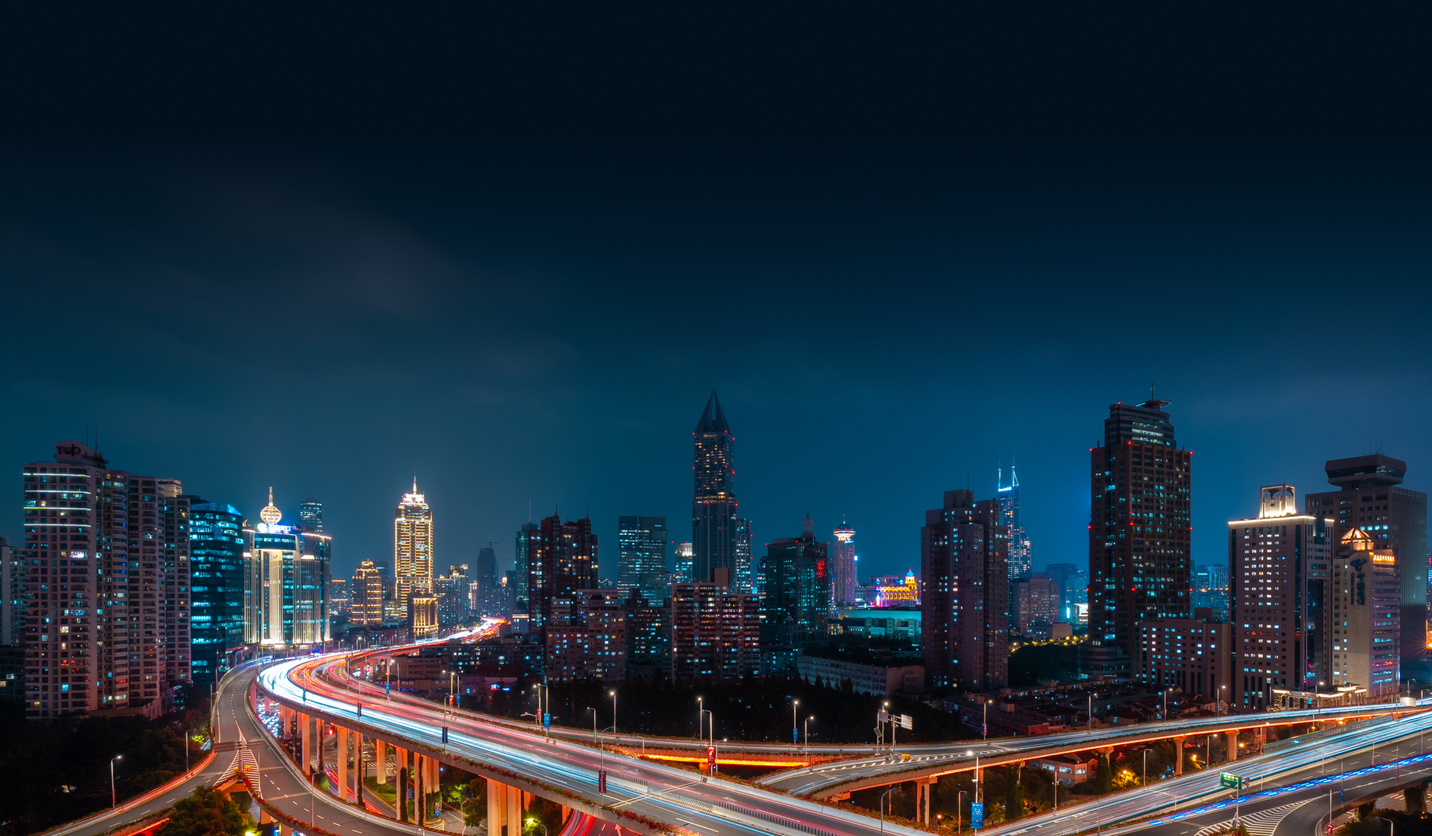
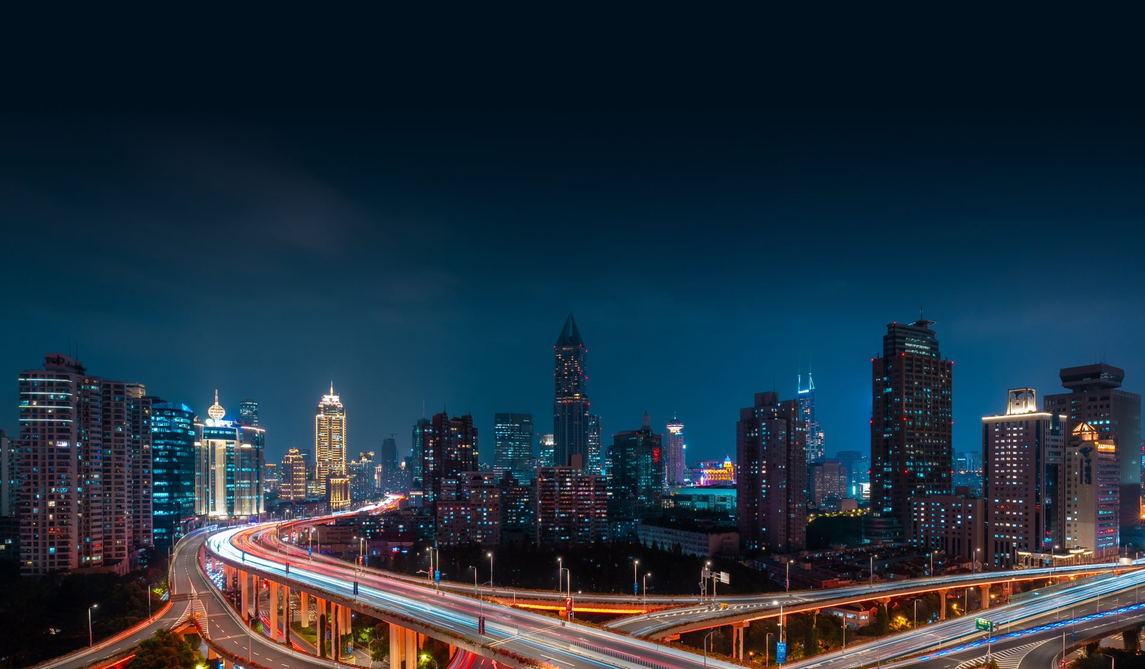
feat: cover-bg.jpg en hero con parallax + "Impulso y oportunidad" en amarillo
- Fondo cover-bg.jpg con overlay degradado oscuro (hero legible)
- Parallax sutil speed 0.10 unificado con registro en mismo listener
- "Impulso y oportunidad" en amarillo corporativo #FFDF00

https://claude.ai/code/session_01D8ZnPVVGj2vj9XwSmqi2Cn

diff --git a/styles.css b/styles.css
@@ -76,13 +76,18 @@ a{color:inherit;text-decoration:none;}
 .nav__cta:active{transform:translateY(1px);}
 @media (max-width:760px){.nav__links{display:none;}}
 
-.hero{position:relative;background:var(--hero);color:#fff;
+.hero{position:relative;overflow:hidden;background:var(--hero);color:#fff;
   min-height:clamp(520px,64vw,662px);
   display:flex;flex-direction:column;align-items:center;justify-content:center;
   text-align:center;padding:120px var(--pad) clamp(48px,7vw,90px);}
-.hero::before{content:"";position:absolute;inset:0;
-  background:radial-gradient(120% 90% at 50% 35%,rgba(255,255,255,.06),transparent 60%),
-             linear-gradient(180deg,rgba(0,0,0,.18),rgba(0,0,0,.30));pointer-events:none;}
+.hero__bg{
+  position:absolute;inset:-25% 0;
+  background:url('assets/cover-bg.jpg') center/cover no-repeat;
+  will-change:transform;transition:transform .12s linear;z-index:0;
+}
+.hero__bg::after{content:"";position:absolute;inset:0;
+  background:radial-gradient(120% 90% at 50% 35%,rgba(255,255,255,.04),transparent 60%),
+             linear-gradient(180deg,rgba(0,0,0,.42),rgba(0,0,0,.58));pointer-events:none;}
 .hero__content{position:relative;z-index:2;display:flex;flex-direction:column;align-items:center;}
 
 .oplogo{display:flex;align-items:center;gap:12px;margin-bottom:clamp(28px,5vw,48px);}

diff --git a/app.js b/app.js
@@ -74,14 +74,17 @@
   }
   window.addEventListener('beforeprint', function () { document.documentElement.classList.add('reveal-fallback'); });
 
-  /* ---------- Parallax: fondo sección registro ---------- */
-  var regBg = document.querySelector('.registro__bg');
-  if (regBg && !window.matchMedia('(prefers-reduced-motion:reduce)').matches) {
-    var regSection = document.getElementById('registro');
+  /* ---------- Parallax: hero + registro ---------- */
+  if (!window.matchMedia('(prefers-reduced-motion:reduce)').matches) {
+    var parallaxItems = [
+      { bg: document.querySelector('.hero__bg'),     section: document.getElementById('top'),       speed: 0.10 },
+      { bg: document.querySelector('.registro__bg'), section: document.getElementById('registro'),  speed: 0.10 }
+    ];
     var onScroll = function () {
-      var rect = regSection.getBoundingClientRect();
-      var speed = 0.10;
-      regBg.style.transform = 'translateY(' + (rect.top * speed) + 'px)';
+      parallaxItems.forEach(function (p) {
+        if (!p.bg) return;
+        p.bg.style.transform = 'translateY(' + (p.section.getBoundingClientRect().top * p.speed) + 'px)';
+      });
     };
     window.addEventListener('scroll', onScroll, { passive: true });
     onScroll();

diff --git a/index.html b/index.html
@@ -11,6 +11,7 @@
 
   <!-- ============ HERO PANEL (with overlay nav) ============ -->
   <section class="hero panel" id="top">
+    <div class="hero__bg" aria-hidden="true"></div>
     <nav class="nav">
       <a class="nav__logo" href="#top" aria-label="Savills">
         <img src="assets/savills-logo.svg" alt="Savills">
@@ -30,7 +31,7 @@
       </div>
 
       <h1 class="hero__title reveal d1">Oficinas</h1>
-      <p class="hero__sub reveal d1">Impulso y oportunidad</p>
+      <p class="hero__sub reveal d1" style="color:var(--yellow)">Impulso y oportunidad</p>
 
       <dl class="hero__meta reveal d2">
         <div><dt>25 junio 2026</dt><dd>Fecha</dd></div>
